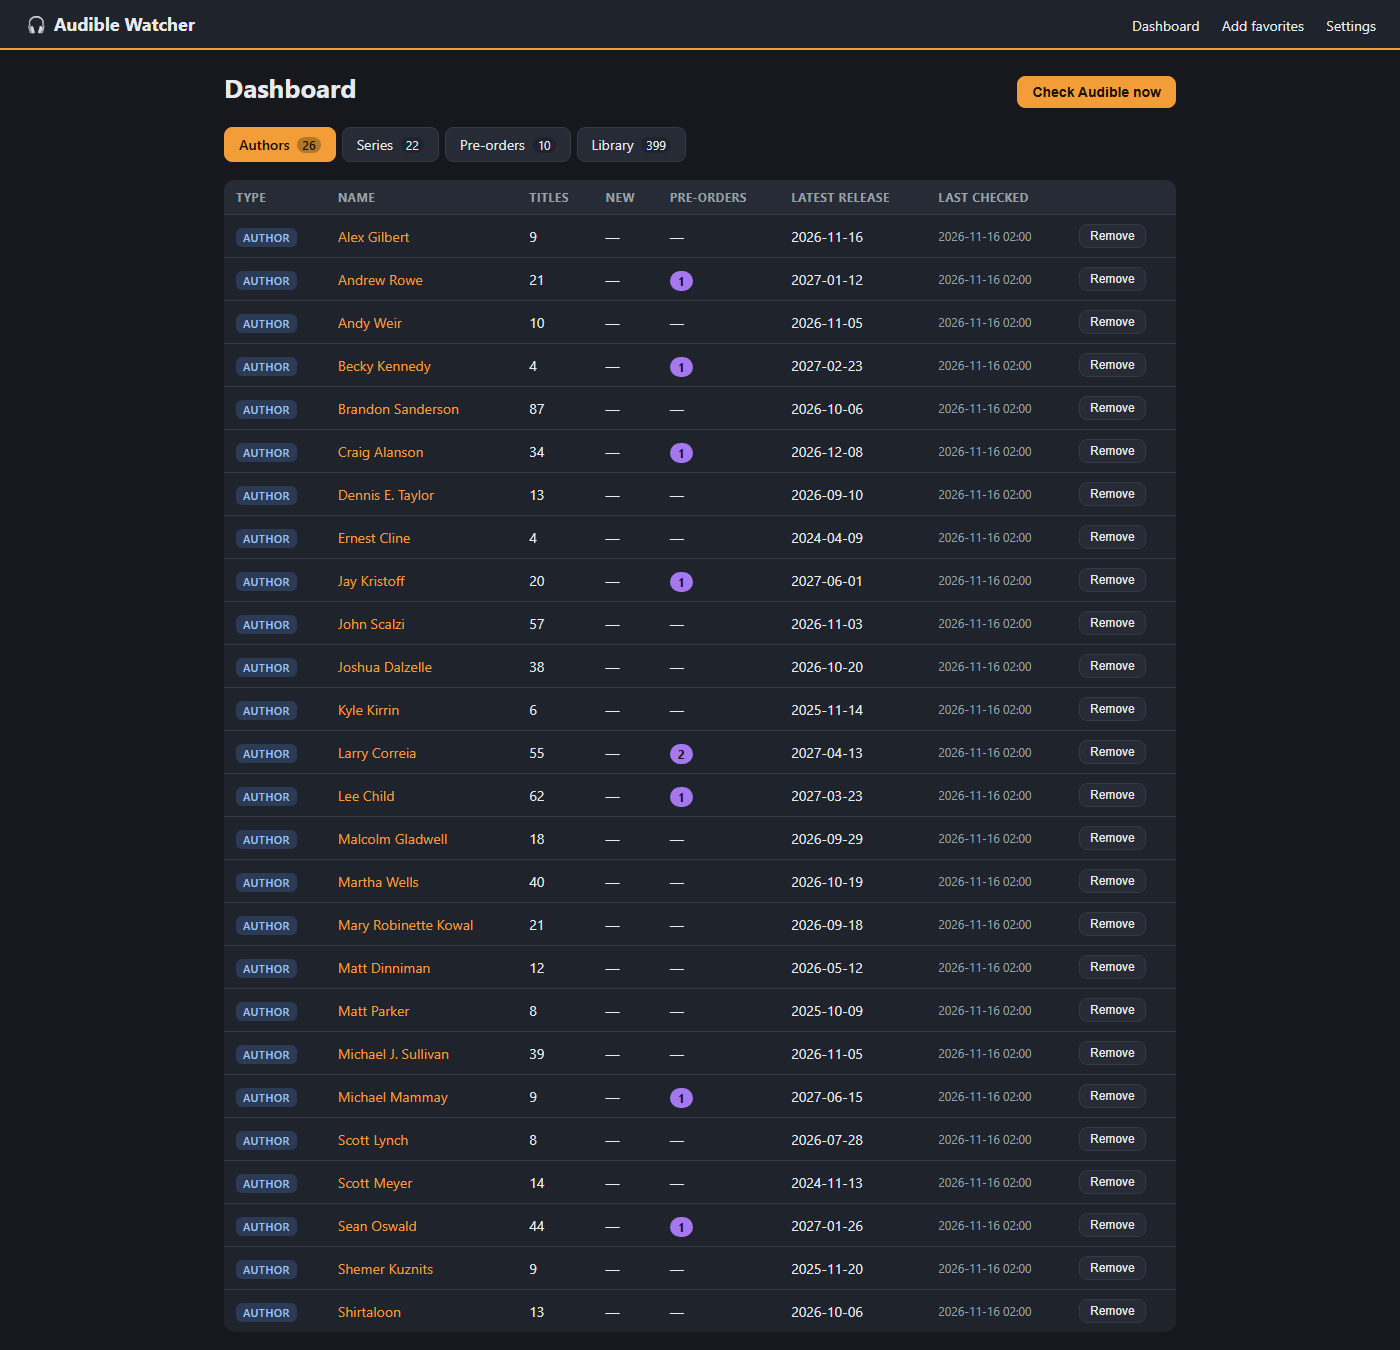
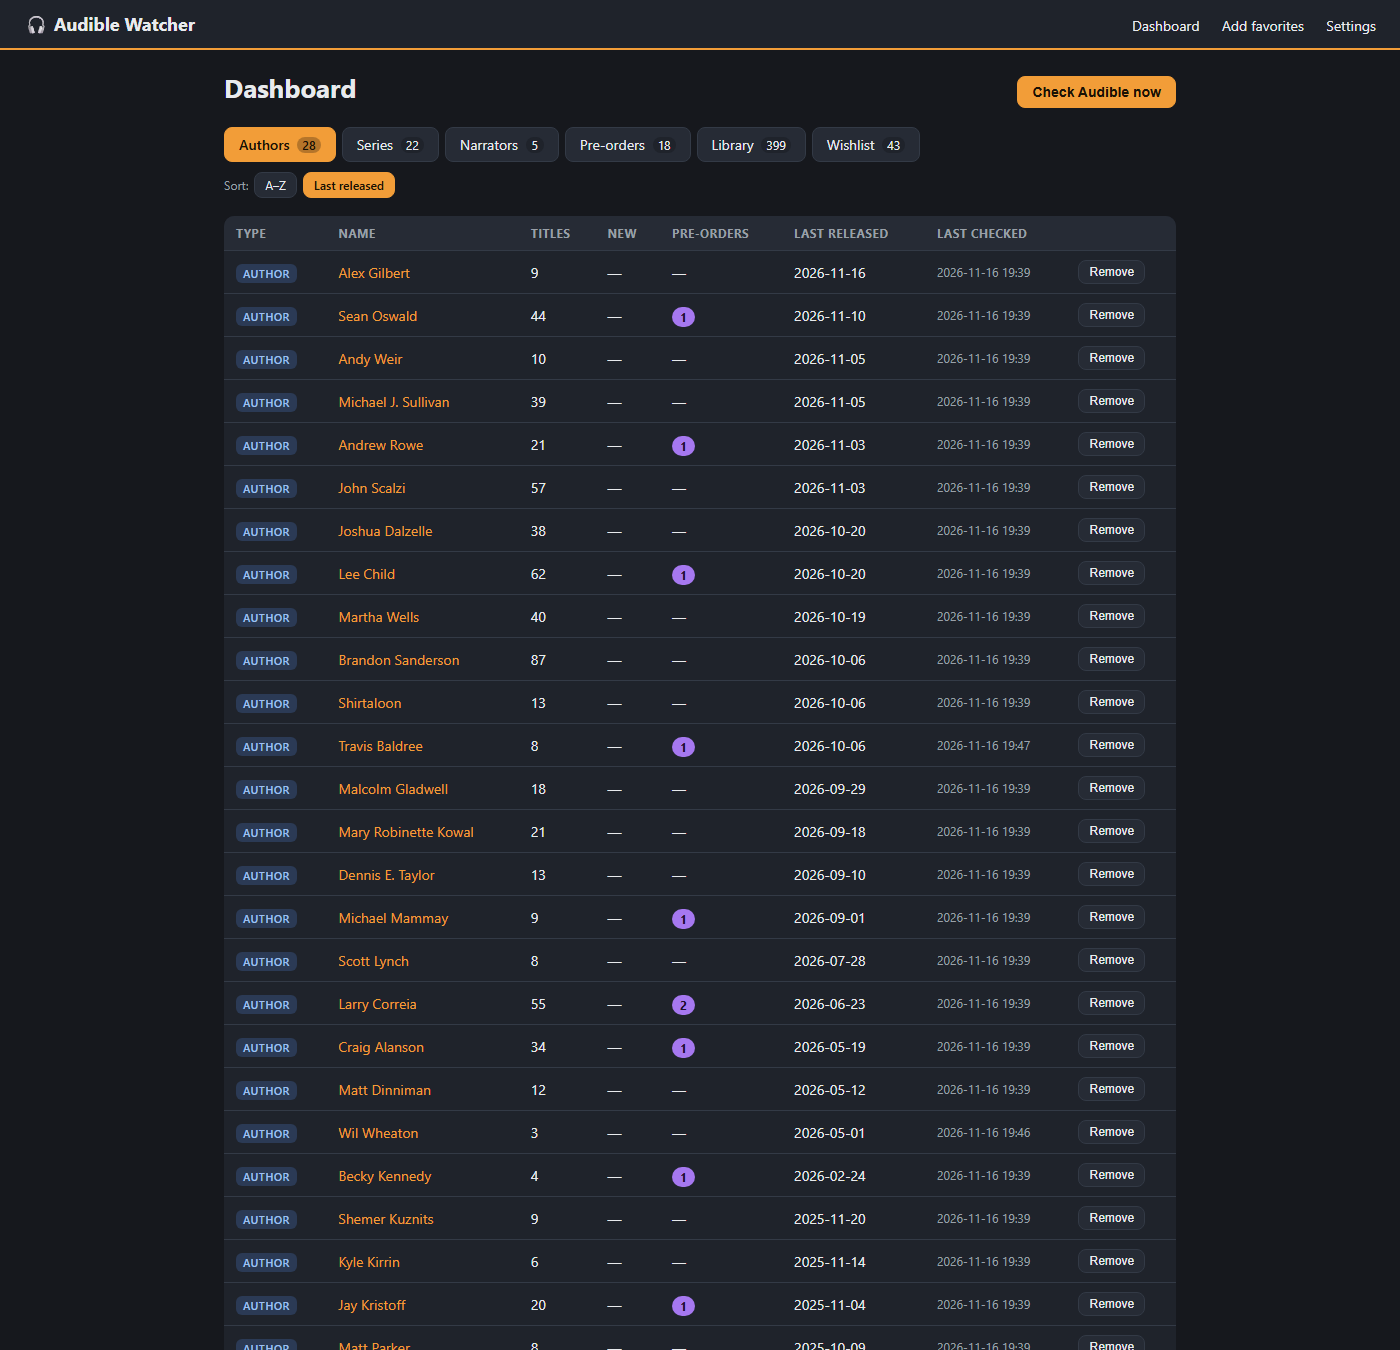
README: new screenshots for 1.2.0, narrator page
Retaken from a running 1.2.0: Pre-orders with filters and narrators,
the dashboard sorted by Last released, the Murderbot series page with
full casts, and a new narrator page. Image descriptions, the dashboard's
tabs and the email bullet (mail relays) updated to match.

diff --git a/README.md b/README.md
@@ -4,7 +4,7 @@ A small self-hosted app that watches Audible for **new releases from your
 favorite authors, series and narrators** and **emails you** when something new shows up
 (including pre-orders, as soon as they're listed).
 
-![The Pre-orders tab: upcoming audiobooks from followed series and authors, each with cover, release date and a PRE-ORDER or PRE-ORDERED badge](docs/screenshots/preorders.png)
+![The Pre-orders tab: genre, length and source filters above upcoming audiobooks from followed series and authors, each with cover, narrator, release date and a PRE-ORDER or PRE-ORDERED badge](docs/screenshots/preorders.png)
 
 It uses Audible's public catalog API — no Audible login required, no
 credentials, no scraping of web pages. Everything runs on your own computer.
@@ -42,15 +42,19 @@ Content and Devices".
 ## Features
 
 - **Dashboard** showing everything you watch, with a "new books" section,
-  latest release dates, pre-orders and a check history log.
+  tabs for your authors, series, narrators, pre-orders, library and
+  wishlist, and a check history log.
 
-  ![The dashboard's Authors tab: each watched author with their number of titles, upcoming pre-orders and latest release date](docs/screenshots/dashboard.png)
+  ![The dashboard's Authors tab sorted by Last released: each watched author with their number of titles, upcoming pre-orders and the date of their most recent release](docs/screenshots/dashboard.png)
 
 - **Watch authors, series or narrators** — search Audible from the app
   and add them. Watching a series also watches its author. A narrator watch
   covers everything they narrate, including full-cast productions, and
   treats "Kevin R. Free" and "Kevin Free" as one person. Narrators are only
   watched when you add them yourself.
+
+  ![A narrator page (R.C. Bray): all 470 narrations, newest first, with PRE-ORDER, PRE-ORDERED and OWNED badges](docs/screenshots/narrator-page.png)
+
 - **Narrated by** on book cards (when a book has one narrator; full-cast
   lists show on watch pages), linking to that narrator's page or a search.
 - **Pre-orders filters** — narrow the Pre-orders tab by genre, length, or
@@ -58,8 +62,9 @@ Content and Devices".
   only change what you see, never what's watched or emailed.
 - **Daily automatic check** (time configurable) plus a "Check Audible now"
   button that runs in the background while the page updates itself.
-- **Email digest** via Gmail or any other email provider when new titles
-  appear, with step-by-step setup on the Settings page.
+- **Email digest** via Gmail, any other email provider or a mail relay on
+  your own network when new titles appear, with step-by-step setup on the
+  Settings page.
 - **No false alarms**:
   - When you add a watch, everything currently on Audible is recorded as a
     baseline. Only titles that appear *after* that are flagged.
@@ -76,7 +81,7 @@ Content and Devices".
   owned. The library re-syncs about once a day with the daily check, so new
   purchases show up on their own.
 
-  ![A series page (Murderbot Diaries) in series order: owned books carry an OWNED badge, and dramatized adaptations are listed next to the original editions](docs/screenshots/series-page.png)
+  ![A series page (Murderbot Diaries) in series order: owned books carry an OWNED badge, and dramatized adaptations are listed next to the original editions with their full casts](docs/screenshots/series-page.png)
 
 - **Wishlist price alerts** (optional, needs your Audible account) — an
   email when a title on your Audible wishlist drops to your alert price or
